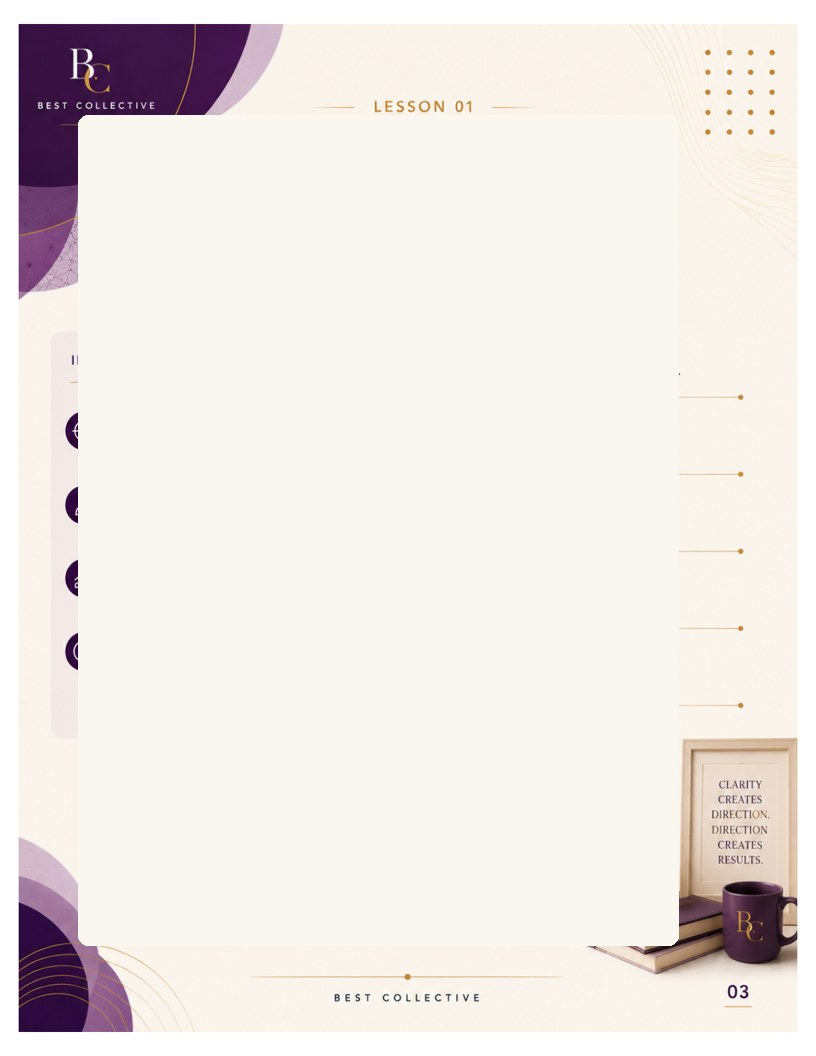
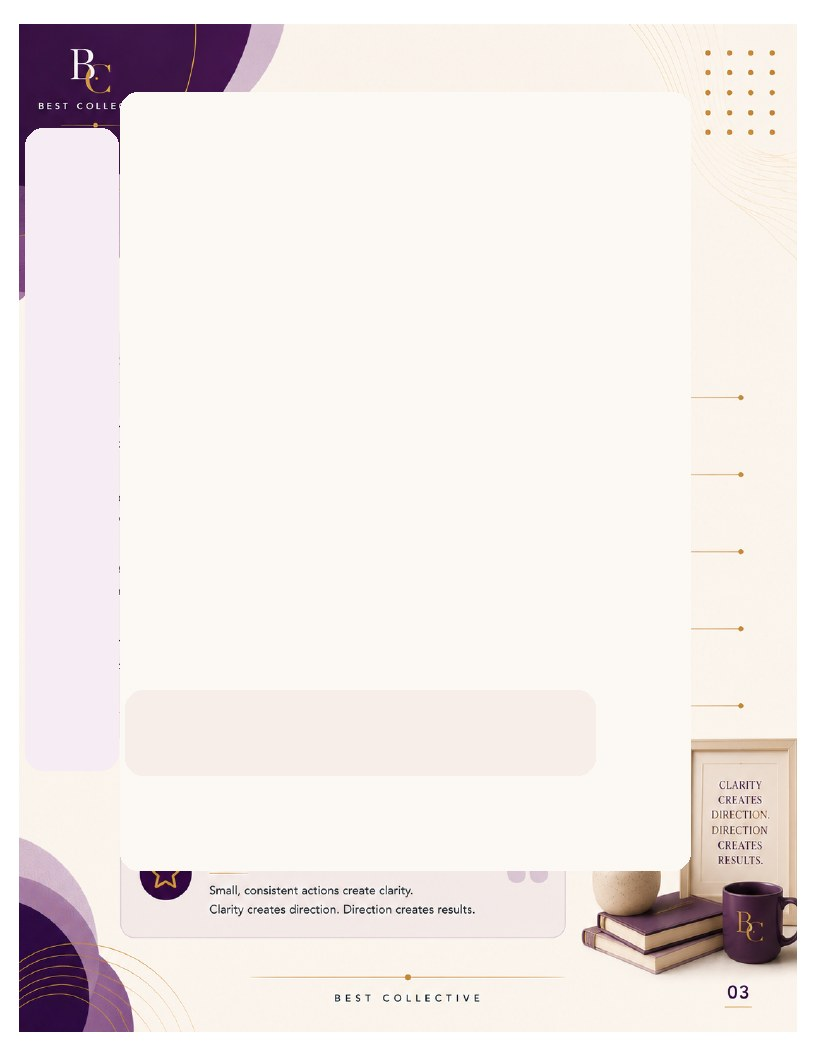
Apply rich Brand workbook template backgrounds

diff --git a/lib/renderer/htmlBuilder.ts b/lib/renderer/htmlBuilder.ts
@@ -1757,7 +1757,6 @@ function buildCss(tokens: DesignPresetTokens) {
         letter-spacing: 0.28em;
         margin: 0;
         text-transform: uppercase;
-        text-shadow: 0 1px 5px ${transparent(tokens.paper, 0.72)};
       }
       .cover .image-slot {
         position: absolute;
@@ -3121,7 +3120,6 @@ function buildCss(tokens: DesignPresetTokens) {
         right: 0.72in;
         bottom: 0.42in;
         z-index: 3;
-        text-shadow: 0 1px 4px ${transparent(tokens.paper, 0.9)};
       }
       .style-rise .section-label {
         color: ${tokens.rose};
@@ -3569,7 +3567,6 @@ function buildCss(tokens: DesignPresetTokens) {
         right: 0.72in;
         bottom: 0.62in;
         z-index: 3;
-        text-shadow: 0 1px 5px ${transparent(tokens.ink, 0.6)};
       }
       .style-land.cover .footer {
         display: none;
@@ -5011,7 +5008,6 @@ function buildCss(tokens: DesignPresetTokens) {
         letter-spacing: 0.28em;
         margin: 0;
         text-align: center;
-        text-shadow: 0 1px 5px ${transparent(tokens.paper, 0.72)};
         text-transform: uppercase;
       }
       .style-brand.page.cover .cover-title {
@@ -5047,7 +5043,6 @@ function buildCss(tokens: DesignPresetTokens) {
       .style-land.page.cover .cover-tagline,
       .style-meetatheal.page.cover .cover-tagline {
         color: ${tokens.paper};
-        text-shadow: 0 1px 5px ${transparent(tokens.background, 0.78)};
       }
       .style-rebuild.page.cover .cover-copy {
         align-items: center;
@@ -5908,25 +5903,25 @@ function buildBrandTemplateCss(tokens: DesignPresetTokens) {
         background-repeat: no-repeat;
         background-size: cover;
       }
-      .style-brand.type-welcome { background-image: url("${template.welcome}"); }
-      .style-brand.type-toc { background-image: url("${template.toc}"); }
-      .style-brand.type-quote { background-image: url("${template.quote}"); }
-      .style-brand.type-section-divider { background-image: url("${template.sectionDivider}"); }
-      .style-brand.type-how-to-use { background-image: url("${template.howToUse}"); }
-      .style-brand.type-important-to-know { background-image: url("${template.importantToKnow}"); }
-      .style-brand.type-lesson { background-image: url("${template.lesson}"); }
-      .style-brand.type-lesson-continue { background-image: url("${template.lessonContinue}"); }
-      .style-brand.type-workbook { background-image: url("${template.workbook}"); }
-      .style-brand.type-checklist { background-image: url("${template.checklist}"); }
-      .style-brand.type-tracker { background-image: url("${template.tracker}"); }
-      .style-brand.type-action-plan { background-image: url("${template.action}"); }
-      .style-brand.type-notes { background-image: url("${template.notes}"); }
-      .style-brand.type-reflection { background-image: url("${template.lessonContinue}"); }
-      .style-brand.type-progress-check { background-image: url("${template.checklist}"); }
-      .style-brand.type-resource { background-image: url("${template.resource}"); }
-      .style-brand.type-case-study { background-image: url("${template.caseStudy}"); }
-      .style-brand.type-closing { background-image: url("${template.closing}"); }
-      .style-brand.type-back-cover { background-image: url("${template.backCover}"); }
+      .style-brand.type-welcome { background: url("${template.welcome}") center / cover no-repeat !important; }
+      .style-brand.type-toc { background: url("${template.toc}") center / cover no-repeat !important; }
+      .style-brand.type-quote { background: url("${template.quote}") center / cover no-repeat !important; }
+      .style-brand.type-section-divider { background: url("${template.sectionDivider}") center / cover no-repeat !important; }
+      .style-brand.type-how-to-use { background: url("${template.howToUse}") center / cover no-repeat !important; }
+      .style-brand.type-important-to-know { background: url("${template.importantToKnow}") center / cover no-repeat !important; }
+      .style-brand.type-lesson { background: url("${template.lesson}") center / cover no-repeat !important; }
+      .style-brand.type-lesson-continue { background: url("${template.lessonContinue}") center / cover no-repeat !important; }
+      .style-brand.type-workbook { background: url("${template.workbook}") center / cover no-repeat !important; }
+      .style-brand.type-checklist { background: url("${template.checklist}") center / cover no-repeat !important; }
+      .style-brand.type-tracker { background: url("${template.tracker}") center / cover no-repeat !important; }
+      .style-brand.type-action-plan { background: url("${template.action}") center / cover no-repeat !important; }
+      .style-brand.type-notes { background: url("${template.notes}") center / cover no-repeat !important; }
+      .style-brand.type-reflection { background: url("${template.lessonContinue}") center / cover no-repeat !important; }
+      .style-brand.type-progress-check { background: url("${template.checklist}") center / cover no-repeat !important; }
+      .style-brand.type-resource { background: url("${template.resource}") center / cover no-repeat !important; }
+      .style-brand.type-case-study { background: url("${template.caseStudy}") center / cover no-repeat !important; }
+      .style-brand.type-closing { background: url("${template.closing}") center / cover no-repeat !important; }
+      .style-brand.type-back-cover { background: url("${template.backCover}") center / cover no-repeat !important; }
       .style-brand.type-resource,
       .style-brand.type-closing {
         background:
@@ -5952,6 +5947,41 @@ function buildBrandTemplateCss(tokens: DesignPresetTokens) {
       .style-brand:not(.cover) .brand-pen,
       .style-brand:not(.cover) .brand-glasses {
         display: none !important;
+      }
+      .style-brand.type-welcome .page-ribbon,
+      .style-brand.type-toc .page-ribbon,
+      .style-brand.type-quote .page-ribbon,
+      .style-brand.type-section-divider .page-ribbon,
+      .style-brand.type-how-to-use .page-ribbon,
+      .style-brand.type-important-to-know .page-ribbon,
+      .style-brand.type-lesson .page-ribbon,
+      .style-brand.type-lesson-continue .page-ribbon,
+      .style-brand.type-workbook .page-ribbon,
+      .style-brand.type-checklist .page-ribbon,
+      .style-brand.type-tracker .page-ribbon,
+      .style-brand.type-action-plan .page-ribbon,
+      .style-brand.type-notes .page-ribbon,
+      .style-brand.type-reflection .page-ribbon,
+      .style-brand.type-progress-check .page-ribbon,
+      .style-brand.type-resource .page-ribbon,
+      .style-brand.type-case-study .page-ribbon,
+      .style-brand.type-closing .page-ribbon,
+      .style-brand.type-back-cover .page-ribbon {
+        display: none !important;
+      }
+      .style-brand.type-workbook .content,
+      .style-brand.type-checklist .content,
+      .style-brand.type-tracker .content,
+      .style-brand.type-action-plan .content,
+      .style-brand.type-notes .content,
+      .style-brand.type-reflection .content,
+      .style-brand.type-progress-check .content,
+      .style-brand.type-resource .content,
+      .style-brand.type-case-study .content,
+      .style-brand.type-closing .content {
+        background: transparent !important;
+        border: 0 !important;
+        box-shadow: none !important;
       }
       .style-brand.type-welcome .welcome-frame,
       .style-brand.type-toc .toc-frame,
